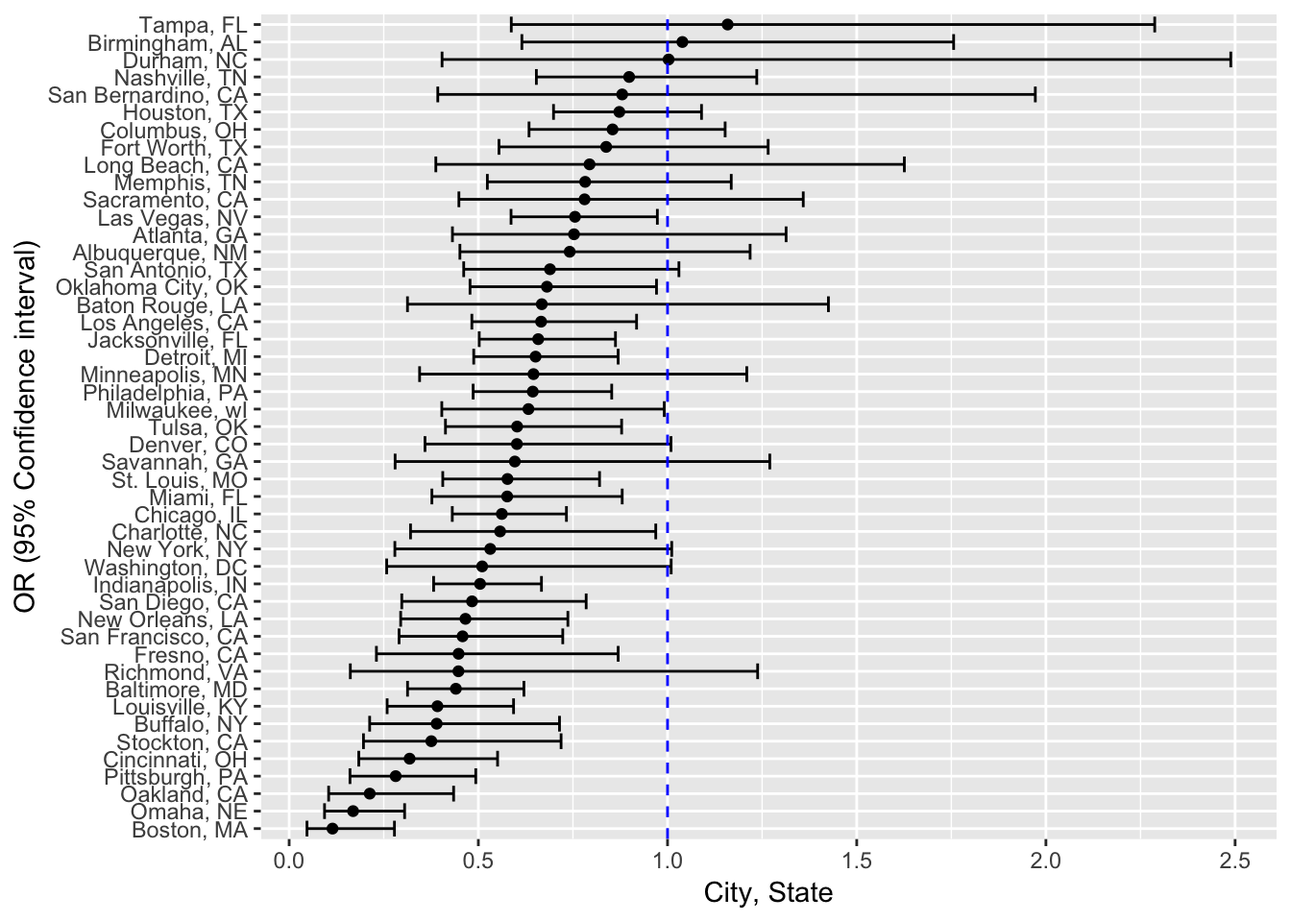
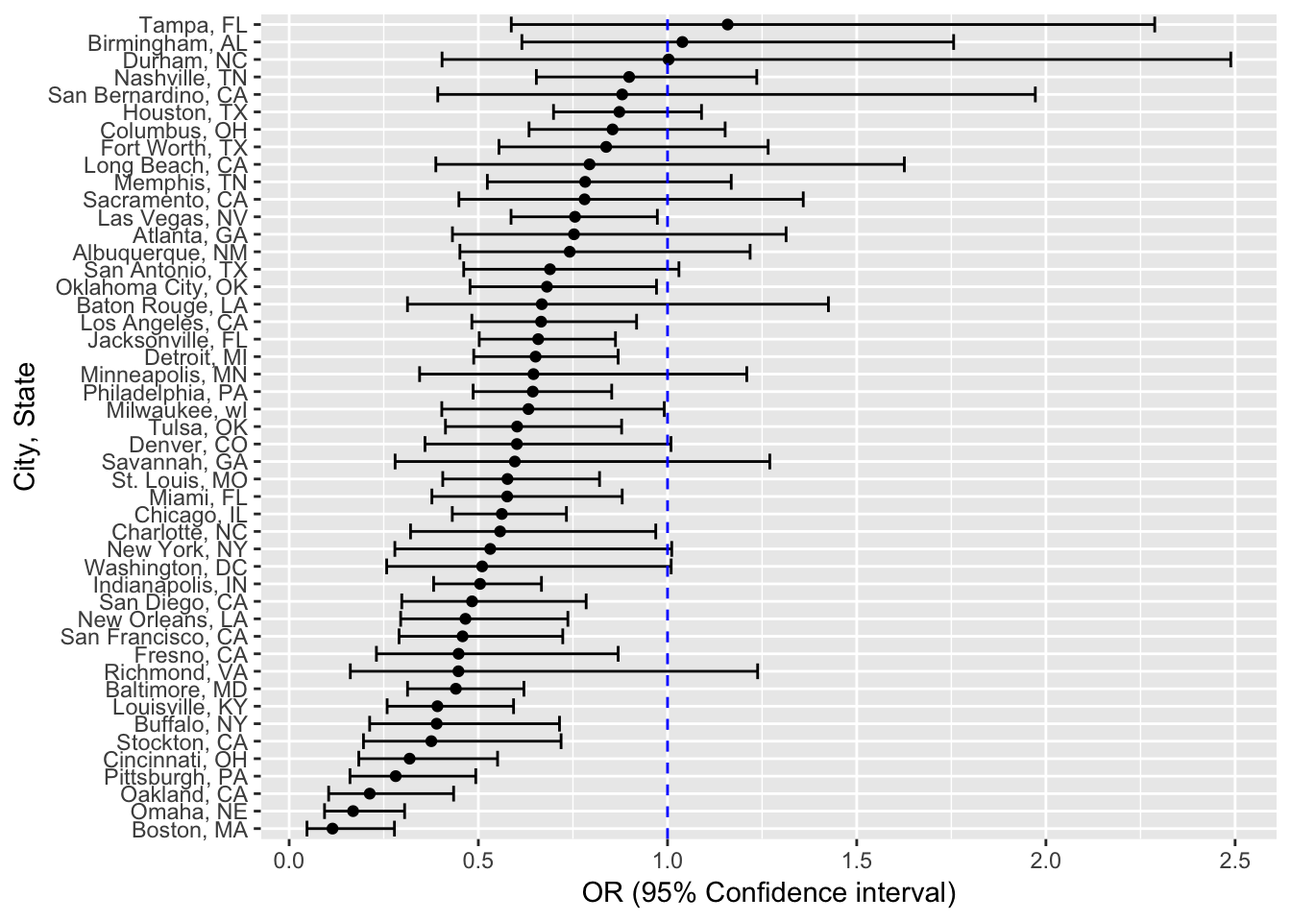
labs for coordinates in plot

Changed region(s): [[0.4688, 0.9375, 0.75, 1.0], [0.0, 0.25, 0.0312, 0.6562]]

diff --git a/unsolved_homicide.html b/unsolved_homicide.html
@@ -341,8 +341,8 @@ baltimore_prop</code></pre>
   )
 
 ggplotly(plot)</code></pre>
-<div id="htmlwidget-5b611d64d1c3463ef6be" style="width:672px;height:480px;" class="plotly html-widget"></div>
-<script type="application/json" data-for="htmlwidget-5b611d64d1c3463ef6be">{"x":{"data":[{"x":[12,11,48,26,19,32,46,2,50,21,37,29,41,43,8,27,5,34,23,36,14,17,15,31,24,3,45,6,35,7,49,13,39,30,16,22,42,38,1,9,18,47,10,33,28,40,44,25,4,20],"y":[0.386243386243386,0.383350462487153,0.645560665015918,0.462264150943396,0.43375,0.504885993485342,0.612284069097889,0.299854439592431,0.735862691960253,0.445244956772334,0.530442804428044,0.481174218251436,0.541666666666667,0.58832870186582,0.365942028985507,0.46448087431694,0.347022587268994,0.507477906186268,0.449319213313162,0.511130136986301,0.408403361344538,0.414192614047791,0.412698412698413,0.490031014621179,0.453125,0.319022457067371,0.604838709677419,0.361434977578475,0.510928961748634,0.36245110821382,0.648535564853556,0.38755980861244,0.536430834213305,0.485119047619048,0.41320293398533,0.447810339150477,0.551422319474836,0.534072900158479,0.263403263403263,0.36968085106383,0.428571428571429,0.618181818181818,0.379609544468547,0.506787330316742,0.467479674796748,0.539654144305307,0.599099099099099,0.456730769230769,0.331046312178388,0.437918215613383],"text":["city_state: Albuquerque, NM<br />estimate: 0.3862434","city_state: Atlanta, GA<br />estimate: 0.3833505","city_state: Baltimore, MD<br />estimate: 0.6455607","city_state: Baton Rouge, LA<br />estimate: 0.4622642","city_state: Birmingham, AL<br />estimate: 0.4337500","city_state: Boston, MA<br />estimate: 0.5048860","city_state: Buffalo, NY<br />estimate: 0.6122841","city_state: Charlotte, NC<br />estimate: 0.2998544","city_state: Chicago, IL<br />estimate: 0.7358627","city_state: Cincinnati, OH<br />estimate: 0.4452450","city_state: Columbus, OH<br />estimate: 0.5304428","city_state: Dallas, TX<br />estimate: 0.4811742","city_state: Denver, CO<br />estimate: 0.5416667","city_state: Detroit, MI<br />estimate: 0.5883287","city_state: Durham, NC<br />estimate: 0.3659420","city_state: Fort Worth, TX<br />estimate: 0.4644809","city_state: Fresno, CA<br />estimate: 0.3470226","city_state: Houston, TX<br />estimate: 0.5074779","city_state: Indianapolis, IN<br />estimate: 0.4493192","city_state: Jacksonville, FL<br />estimate: 0.5111301","city_state: Kansas City, MO<br />estimate: 0.4084034","city_state: Las Vegas, NV<br />estimate: 0.4141926","city_state: Long Beach, CA<br />estimate: 0.4126984","city_state: Los Angeles, CA<br />estimate: 0.4900310","city_state: Louisville, KY<br />estimate: 0.4531250","city_state: Memphis, TN<br />estimate: 0.3190225","city_state: Miami, FL<br />estimate: 0.6048387","city_state: Milwaukee, wI<br />estimate: 0.3614350","city_state: Minneapolis, MN<br />estimate: 0.5109290","city_state: Nashville, TN<br />estimate: 0.3624511","city_state: New Orleans, LA<br />estimate: 0.6485356","city_state: New York, NY<br />estimate: 0.3875598","city_state: Oakland, CA<br />estimate: 0.5364308","city_state: Oklahoma City, OK<br />estimate: 0.4851190","city_state: Omaha, NE<br />estimate: 0.4132029","city_state: Philadelphia, PA<br />estimate: 0.4478103","city_state: Phoenix, AZ<br />estimate: 0.5514223","city_state: Pittsburgh, PA<br />estimate: 0.5340729","city_state: Richmond, VA<br />estimate: 0.2634033","city_state: Sacramento, CA<br />estimate: 0.3696809","city_state: San Antonio, TX<br />estimate: 0.4285714","city_state: San Bernardino, CA<br />estimate: 0.6181818","city_state: San Diego, CA<br />estimate: 0.3796095","city_state: San Francisco, CA<br />estimate: 0.5067873","city_state: Savannah, GA<br />estimate: 0.4674797","city_state: St. Louis, MO<br />estimate: 0.5396541","city_state: Stockton, CA<br />estimate: 0.5990991","city_state: Tampa, FL<br />estimate: 0.4567308","city_state: Tulsa, OK<br />estimate: 0.3310463","city_state: Washington, DC<br />estimate: 0.4379182"],"type":"scatter","mode":"markers","marker":{"autocolorscale":false,"color":"rgba(0,0,0,1)","opacity":1,"size":5.66929133858268,"symbol":"circle","line":{"width":1.88976377952756,"color":"rgba(0,0,0,1)"}},"hoveron":"points","showlegend":false,"xaxis":"x","yaxis":"y","hoverinfo":"text","frame":null},{"x":[12,11,48,26,19,32,46,2,50,21,37,29,41,43,8,27,5,34,23,36,14,17,15,31,24,3,45,6,35,7,49,13,39,30,16,22,42,38,1,9,18,47,10,33,28,40,44,25,4,20],"y":[0.386243386243386,0.383350462487153,0.645560665015918,0.462264150943396,0.43375,0.504885993485342,0.612284069097889,0.299854439592431,0.735862691960253,0.445244956772334,0.530442804428044,0.481174218251436,0.541666666666667,0.58832870186582,0.365942028985507,0.46448087431694,0.347022587268994,0.507477906186268,0.449319213313162,0.511130136986301,0.408403361344538,0.414192614047791,0.412698412698413,0.490031014621179,0.453125,0.319022457067371,0.604838709677419,0.361434977578475,0.510928961748634,0.36245110821382,0.648535564853556,0.38755980861244,0.536430834213305,0.485119047619048,0.41320293398533,0.447810339150477,0.551422319474836,0.534072900158479,0.263403263403263,0.36968085106383,0.428571428571429,0.618181818181818,0.379609544468547,0.506787330316742,0.467479674796748,0.539654144305307,0.599099099099099,0.456730769230769,0.331046312178388,0.437918215613383],"text":["conf_low: 0.3372604<br />conf_high: 0.4375766<br />city_state: Albuquerque, NM<br />estimate: 0.3862434","conf_low: 0.3528119<br />conf_high: 0.4148219<br />city_state: Atlanta, GA<br />estimate: 0.3833505","conf_low: 0.6275625<br />conf_high: 0.6631599<br />city_state: Baltimore, MD<br />estimate: 0.6455607","conf_low: 0.4141987<br />conf_high: 0.5110240<br />city_state: Baton Rouge, LA<br />estimate: 0.4622642","conf_low: 0.3991889<br />conf_high: 0.4689557<br />city_state: Birmingham, AL<br />estimate: 0.4337500","conf_low: 0.4646219<br />conf_high: 0.5450881<br />city_state: Boston, MA<br />estimate: 0.5048860","conf_low: 0.5687990<br />conf_high: 0.6540879<br />city_state: Buffalo, NY<br />estimate: 0.6122841","conf_low: 0.2660820<br />conf_high: 0.3358999<br />city_state: Charlotte, NC<br />estimate: 0.2998544","conf_low: 0.7239959<br />conf_high: 0.7473998<br />city_state: Chicago, IL<br />estimate: 0.7358627","conf_low: 0.4079606<br />conf_high: 0.4831439<br />city_state: Cincinnati, OH<br />estimate: 0.4452450","conf_low: 0.5002167<br />conf_high: 0.5604506<br />city_state: Columbus, OH<br />estimate: 0.5304428","conf_low: 0.4561942<br />conf_high: 0.5062475<br />city_state: Dallas, TX<br />estimate: 0.4811742","conf_low: 0.4846098<br />conf_high: 0.5976807<br />city_state: Denver, CO<br />estimate: 0.5416667","conf_low: 0.5687903<br />conf_high: 0.6075953<br />city_state: Detroit, MI<br />estimate: 0.5883287","conf_low: 0.3095874<br />conf_high: 0.4260936<br />city_state: Durham, NC<br />estimate: 0.3659420","conf_low: 0.4222542<br />conf_high: 0.5072119<br />city_state: Fort Worth, TX<br />estimate: 0.4644809","conf_low: 0.3051013<br />conf_high: 0.3913963<br />city_state: Fresno, CA<br />estimate: 0.3470226","conf_low: 0.4892447<br />conf_high: 0.5256914<br />city_state: Houston, TX<br />estimate: 0.5074779","conf_low: 0.4223156<br />conf_high: 0.4766207<br />city_state: Indianapolis, IN<br />estimate: 0.4493192","conf_low: 0.4820460<br />conf_high: 0.5401402<br />city_state: Jacksonville, FL<br />estimate: 0.5111301","conf_low: 0.3803996<br />conf_high: 0.4370054<br />city_state: Kansas City, MO<br />estimate: 0.4084034","conf_low: 0.3881284<br />conf_high: 0.4407395<br />city_state: Las Vegas, NV<br />estimate: 0.4141926","conf_low: 0.3629026<br />conf_high: 0.4642973<br />city_state: Long Beach, CA<br />estimate: 0.4126984","conf_low: 0.4692208<br />conf_high: 0.5108754<br />city_state: Los Angeles, CA<br />estimate: 0.4900310","conf_low: 0.4120609<br />conf_high: 0.4948235<br />city_state: Louisville, KY<br />estimate: 0.4531250","conf_low: 0.2957047<br />conf_high: 0.3432691<br />city_state: Memphis, TN<br />estimate: 0.3190225","conf_low: 0.5685783<br />conf_high: 0.6400015<br />city_state: Miami, FL<br />estimate: 0.6048387","conf_low: 0.3333172<br />conf_high: 0.3905194<br />city_state: Milwaukee, wI<br />estimate: 0.3614350","conf_low: 0.4585150<br />conf_high: 0.5631099<br />city_state: Minneapolis, MN<br />estimate: 0.5109290","conf_low: 0.3285592<br />conf_high: 0.3977401<br />city_state: Nashville, TN<br />estimate: 0.3624511","conf_low: 0.6231048<br />conf_high: 0.6731615<br />city_state: New Orleans, LA<br />estimate: 0.6485356","conf_low: 0.3494421<br />conf_high: 0.4270755<br />city_state: New York, NY<br />estimate: 0.3875598","conf_low: 0.5040588<br />conf_high: 0.5685037<br />city_state: Oakland, CA<br />estimate: 0.5364308","conf_low: 0.4467861<br />conf_high: 0.5236245<br />city_state: Oklahoma City, OK<br />estimate: 0.4851190","conf_low: 0.3653146<br />conf_high: 0.4627477<br />city_state: Omaha, NE<br />estimate: 0.4132029","conf_low: 0.4300380<br />conf_high: 0.4657157<br />city_state: Philadelphia, PA<br />estimate: 0.4478103","conf_low: 0.5184825<br />conf_high: 0.5839244<br />city_state: Phoenix, AZ<br />estimate: 0.5514223","conf_low: 0.4942706<br />conf_high: 0.5734545<br />city_state: Pittsburgh, PA<br />estimate: 0.5340729","conf_low: 0.2228571<br />conf_high: 0.3082658<br />city_state: Richmond, VA<br />estimate: 0.2634033","conf_low: 0.3211559<br />conf_high: 0.4209131<br />city_state: Sacramento, CA<br />estimate: 0.3696809","conf_low: 0.3947772<br />conf_high: 0.4630331<br />city_state: San Antonio, TX<br />estimate: 0.4285714","conf_low: 0.5576628<br />conf_high: 0.6753422<br />city_state: San Bernardino, CA<br />estimate: 0.6181818","conf_low: 0.3354259<br />conf_high: 0.4258315<br />city_state: San Diego, CA<br />estimate: 0.3796095","conf_low: 0.4680516<br />conf_high: 0.5454433<br />city_state: San Francisco, CA<br />estimate: 0.5067873","conf_low: 0.4041252<br />conf_high: 0.5318665<br />city_state: Savannah, GA<br />estimate: 0.4674797","conf_low: 0.5154369<br />conf_high: 0.5636879<br />city_state: St. Louis, MO<br />estimate: 0.5396541","conf_low: 0.5517145<br />conf_high: 0.6447418<br />city_state: Stockton, CA<br />estimate: 0.5990991","conf_low: 0.3881009<br />conf_high: 0.5269851<br />city_state: Tampa, FL<br />estimate: 0.4567308","conf_low: 0.2932349<br />conf_high: 0.3711192<br />city_state: Tulsa, OK<br />estimate: 0.3310463","conf_low: 0.4112495<br />conf_high: 0.4649455<br />city_state: Washington, DC<br />estimate: 0.4379182"],"type":"scatter","mode":"lines","opacity":1,"line":{"color":"transparent"},"error_y":{"array":[0.0513332203121349,0.031471421466469,0.0175991953857436,0.0487598090753998,0.0352057481890362,0.0402020582872963,0.0418038701556435,0.0360454212754139,0.0115370953463946,0.0378989238466023,0.0300077496410138,0.0250733264401792,0.0560140812049631,0.0192666302441059,0.0601516171371205,0.0427310081123972,0.0443737157320374,0.0182135316401225,0.0273014399481592,0.0290100839540223,0.0286020589472369,0.0265468594046689,0.0515989217748125,0.0208444246080254,0.0416984501537965,0.0242466749945465,0.0351627794666202,0.029084400766021,0.0521809217099031,0.0352890348843428,0.0246259396975098,0.039515664613444,0.0320728204813689,0.0385054524259892,0.04954480707971,0.0179054011582327,0.0325020904978442,0.0393815756249488,0.0448625122846903,0.0512322828077911,0.0344616757408758,0.0571604049325292,0.0462219637333801,0.0386559764502041,0.064386864249817,0.0240337150951984,0.0456426843504824,0.0702543382629305,0.0400728556125307,0.0270272563335275],"arrayminus":[0.0489830019891024,0.0305385654508512,0.0179982073532744,0.0480654090830896,0.0345610513678333,0.040264063285038,0.0434851044636604,0.0337724577093105,0.0118668035347985,0.0372843825516465,0.0302260850930621,0.0249800642048432,0.0570568311269721,0.0195383974378104,0.0563546582400418,0.0422266554994513,0.0419213323212632,0.0182332177884478,0.0270036211641085,0.0290841441036856,0.0280037388185234,0.0260641865042308,0.0497957799679844,0.0208101838569787,0.0410641370881935,0.0233177469824389,0.036260384849531,0.0281177921814441,0.0524139797067814,0.0338918964431904,0.0254308027921958,0.0381177292046533,0.0323720697272768,0.0383329653242729,0.0478883462447013,0.0177723132771375,0.0329398155530007,0.0398022988234937,0.0405461727061044,0.0485249141225581,0.0337942152287431,0.0605190215782221,0.0441836421868846,0.0387357208926188,0.06335447823736,0.0242172320526221,0.0473845838859014,0.0686298662091133,0.0378114392841835,0.0266686916411842],"type":"data","width":3.01195219123506,"symmetric":false,"color":"rgba(0,0,0,1)"},"showlegend":false,"xaxis":"x","yaxis":"y","hoverinfo":"text","frame":null}],"layout":{"margin":{"t":26.2283105022831,"r":7.30593607305936,"b":39.1199667911997,"l":43.1050228310502},"plot_bgcolor":"rgba(235,235,235,1)","paper_bgcolor":"rgba(255,255,255,1)","font":{"color":"rgba(0,0,0,1)","family":"","size":14.6118721461187},"xaxis":{"domain":[0,1],"automargin":true,"type":"linear","autorange":false,"range":[0.4,50.6],"tickmode":"array","ticktext":["Richmond, VA","Charlotte, NC","Memphis, TN","Tulsa, OK","Fresno, CA","Milwaukee, wI","Nashville, TN","Durham, NC","Sacramento, CA","San Diego, CA","Atlanta, GA","Albuquerque, NM","New York, NY","Kansas City, MO","Long Beach, CA","Omaha, NE","Las Vegas, NV","San Antonio, TX","Birmingham, AL","Washington, DC","Cincinnati, OH","Philadelphia, PA","Indianapolis, IN","Louisville, KY","Tampa, FL","Baton Rouge, LA","Fort Worth, TX","Savannah, GA","Dallas, TX","Oklahoma City, OK","Los Angeles, CA","Boston, MA","San Francisco, CA","Houston, TX","Minneapolis, MN","Jacksonville, FL","Columbus, OH","Pittsburgh, PA","Oakland, CA","St. Louis, MO","Denver, CO","Phoenix, AZ","Detroit, MI","Stockton, CA","Miami, FL","Buffalo, NY","San Bernardino, CA","Baltimore, MD","New Orleans, LA","Chicago, IL"],"tickvals":[1,2,3,4,5,6,7,8,9,10,11,12,13,14,15,16,17,18,19,20,21,22,23,24,25,26,27,28,29,30,31,32,33,34,35,36,37,38,39,40,41,42,43,44,45,46,47,48,49,50],"categoryorder":"array","categoryarray":["Richmond, VA","Charlotte, NC","Memphis, TN","Tulsa, OK","Fresno, CA","Milwaukee, wI","Nashville, TN","Durham, NC","Sacramento, CA","San Diego, CA","Atlanta, GA","Albuquerque, NM","New York, NY","Kansas City, MO","Long Beach, CA","Omaha, NE","Las Vegas, NV","San Antonio, TX","Birmingham, AL","Washington, DC","Cincinnati, OH","Philadelphia, PA","Indianapolis, IN","Louisville, KY","Tampa, FL","Baton Rouge, LA","Fort Worth, TX","Savannah, GA","Dallas, TX","Oklahoma City, OK","Los Angeles, CA","Boston, MA","San Francisco, CA","Houston, TX","Minneapolis, MN","Jacksonville, FL","Columbus, OH","Pittsburgh, PA","Oakland, CA","St. Louis, MO","Denver, CO","Phoenix, AZ","Detroit, MI","Stockton, CA","Miami, FL","Buffalo, NY","San Bernardino, CA","Baltimore, MD","New Orleans, LA","Chicago, IL"],"nticks":null,"ticks":"outside","tickcolor":"rgba(51,51,51,1)","ticklen":3.65296803652968,"tickwidth":0.66417600664176,"showticklabels":true,"tickfont":{"color":"rgba(77,77,77,1)","family":"","size":10.6268161062682},"tickangle":-80,"showline":false,"linecolor":null,"linewidth":0,"showgrid":true,"gridcolor":"rgba(255,255,255,1)","gridwidth":0.66417600664176,"zeroline":false,"anchor":"y","title":"City, State","titlefont":{"color":"rgba(0,0,0,1)","family":"","size":14.6118721461187},"hoverformat":".2f"},"yaxis":{"domain":[0,1],"automargin":true,"type":"linear","autorange":false,"range":[0.196629955866685,0.773626922137122],"tickmode":"array","ticktext":["0.2","0.3","0.4","0.5","0.6","0.7"],"tickvals":[0.2,0.3,0.4,0.5,0.6,0.7],"categoryorder":"array","categoryarray":["0.2","0.3","0.4","0.5","0.6","0.7"],"nticks":null,"ticks":"outside","tickcolor":"rgba(51,51,51,1)","ticklen":3.65296803652968,"tickwidth":0.66417600664176,"showticklabels":true,"tickfont":{"color":"rgba(77,77,77,1)","family":"","size":11.689497716895},"tickangle":-0,"showline":false,"linecolor":null,"linewidth":0,"showgrid":true,"gridcolor":"rgba(255,255,255,1)","gridwidth":0.66417600664176,"zeroline":false,"anchor":"x","title":"Proportion (95% Confidence interval)","titlefont":{"color":"rgba(0,0,0,1)","family":"","size":14.6118721461187},"hoverformat":".2f"},"shapes":[{"type":"rect","fillcolor":null,"line":{"color":null,"width":0,"linetype":[]},"yref":"paper","xref":"paper","x0":0,"x1":1,"y0":0,"y1":1}],"showlegend":false,"legend":{"bgcolor":"rgba(255,255,255,1)","bordercolor":"transparent","borderwidth":1.88976377952756,"font":{"color":"rgba(0,0,0,1)","family":"","size":11.689497716895}},"hovermode":"closest","barmode":"relative"},"config":{"doubleClick":"reset","modeBarButtonsToAdd":[{"name":"Collaborate","icon":{"width":1000,"ascent":500,"descent":-50,"path":"M487 375c7-10 9-23 5-36l-79-259c-3-12-11-23-22-31-11-8-22-12-35-12l-263 0c-15 0-29 5-43 15-13 10-23 23-28 37-5 13-5 25-1 37 0 0 0 3 1 7 1 5 1 8 1 11 0 2 0 4-1 6 0 3-1 5-1 6 1 2 2 4 3 6 1 2 2 4 4 6 2 3 4 5 5 7 5 7 9 16 13 26 4 10 7 19 9 26 0 2 0 5 0 9-1 4-1 6 0 8 0 2 2 5 4 8 3 3 5 5 5 7 4 6 8 15 12 26 4 11 7 19 7 26 1 1 0 4 0 9-1 4-1 7 0 8 1 2 3 5 6 8 4 4 6 6 6 7 4 5 8 13 13 24 4 11 7 20 7 28 1 1 0 4 0 7-1 3-1 6-1 7 0 2 1 4 3 6 1 1 3 4 5 6 2 3 3 5 5 6 1 2 3 5 4 9 2 3 3 7 5 10 1 3 2 6 4 10 2 4 4 7 6 9 2 3 4 5 7 7 3 2 7 3 11 3 3 0 8 0 13-1l0-1c7 2 12 2 14 2l218 0c14 0 25-5 32-16 8-10 10-23 6-37l-79-259c-7-22-13-37-20-43-7-7-19-10-37-10l-248 0c-5 0-9-2-11-5-2-3-2-7 0-12 4-13 18-20 41-20l264 0c5 0 10 2 16 5 5 3 8 6 10 11l85 282c2 5 2 10 2 17 7-3 13-7 17-13z m-304 0c-1-3-1-5 0-7 1-1 3-2 6-2l174 0c2 0 4 1 7 2 2 2 4 4 5 7l6 18c0 3 0 5-1 7-1 1-3 2-6 2l-173 0c-3 0-5-1-8-2-2-2-4-4-4-7z m-24-73c-1-3-1-5 0-7 2-2 3-2 6-2l174 0c2 0 5 0 7 2 3 2 4 4 5 7l6 18c1 2 0 5-1 6-1 2-3 3-5 3l-174 0c-3 0-5-1-7-3-3-1-4-4-5-6z"},"click":"function(gd) { \n        // is this being viewed in RStudio?\n        if (location.search == '?viewer_pane=1') {\n          alert('To learn about plotly for collaboration, visit:\\n https://cpsievert.github.io/plotly_book/plot-ly-for-collaboration.html');\n        } else {\n          window.open('https://cpsievert.github.io/plotly_book/plot-ly-for-collaboration.html', '_blank');\n        }\n      }"}],"cloud":false},"source":"A","attrs":{"16e93b7518b8":{"x":{},"y":{},"type":"scatter"},"16e94a9f687":{"ymin":{},"ymax":{},"x":{},"y":{}}},"cur_data":"16e93b7518b8","visdat":{"16e93b7518b8":["function (y) ","x"],"16e94a9f687":["function (y) ","x"]},"highlight":{"on":"plotly_click","persistent":false,"dynamic":false,"selectize":false,"opacityDim":0.2,"selected":{"opacity":1},"debounce":0},"base_url":"https://plot.ly"},"evals":["config.modeBarButtonsToAdd.0.click"],"jsHooks":[]}</script>
+<div id="htmlwidget-f8c07e78c395f9d2b3b2" style="width:672px;height:480px;" class="plotly html-widget"></div>
+<script type="application/json" data-for="htmlwidget-f8c07e78c395f9d2b3b2">{"x":{"data":[{"x":[12,11,48,26,19,32,46,2,50,21,37,29,41,43,8,27,5,34,23,36,14,17,15,31,24,3,45,6,35,7,49,13,39,30,16,22,42,38,1,9,18,47,10,33,28,40,44,25,4,20],"y":[0.386243386243386,0.383350462487153,0.645560665015918,0.462264150943396,0.43375,0.504885993485342,0.612284069097889,0.299854439592431,0.735862691960253,0.445244956772334,0.530442804428044,0.481174218251436,0.541666666666667,0.58832870186582,0.365942028985507,0.46448087431694,0.347022587268994,0.507477906186268,0.449319213313162,0.511130136986301,0.408403361344538,0.414192614047791,0.412698412698413,0.490031014621179,0.453125,0.319022457067371,0.604838709677419,0.361434977578475,0.510928961748634,0.36245110821382,0.648535564853556,0.38755980861244,0.536430834213305,0.485119047619048,0.41320293398533,0.447810339150477,0.551422319474836,0.534072900158479,0.263403263403263,0.36968085106383,0.428571428571429,0.618181818181818,0.379609544468547,0.506787330316742,0.467479674796748,0.539654144305307,0.599099099099099,0.456730769230769,0.331046312178388,0.437918215613383],"text":["city_state: Albuquerque, NM<br />estimate: 0.3862434","city_state: Atlanta, GA<br />estimate: 0.3833505","city_state: Baltimore, MD<br />estimate: 0.6455607","city_state: Baton Rouge, LA<br />estimate: 0.4622642","city_state: Birmingham, AL<br />estimate: 0.4337500","city_state: Boston, MA<br />estimate: 0.5048860","city_state: Buffalo, NY<br />estimate: 0.6122841","city_state: Charlotte, NC<br />estimate: 0.2998544","city_state: Chicago, IL<br />estimate: 0.7358627","city_state: Cincinnati, OH<br />estimate: 0.4452450","city_state: Columbus, OH<br />estimate: 0.5304428","city_state: Dallas, TX<br />estimate: 0.4811742","city_state: Denver, CO<br />estimate: 0.5416667","city_state: Detroit, MI<br />estimate: 0.5883287","city_state: Durham, NC<br />estimate: 0.3659420","city_state: Fort Worth, TX<br />estimate: 0.4644809","city_state: Fresno, CA<br />estimate: 0.3470226","city_state: Houston, TX<br />estimate: 0.5074779","city_state: Indianapolis, IN<br />estimate: 0.4493192","city_state: Jacksonville, FL<br />estimate: 0.5111301","city_state: Kansas City, MO<br />estimate: 0.4084034","city_state: Las Vegas, NV<br />estimate: 0.4141926","city_state: Long Beach, CA<br />estimate: 0.4126984","city_state: Los Angeles, CA<br />estimate: 0.4900310","city_state: Louisville, KY<br />estimate: 0.4531250","city_state: Memphis, TN<br />estimate: 0.3190225","city_state: Miami, FL<br />estimate: 0.6048387","city_state: Milwaukee, wI<br />estimate: 0.3614350","city_state: Minneapolis, MN<br />estimate: 0.5109290","city_state: Nashville, TN<br />estimate: 0.3624511","city_state: New Orleans, LA<br />estimate: 0.6485356","city_state: New York, NY<br />estimate: 0.3875598","city_state: Oakland, CA<br />estimate: 0.5364308","city_state: Oklahoma City, OK<br />estimate: 0.4851190","city_state: Omaha, NE<br />estimate: 0.4132029","city_state: Philadelphia, PA<br />estimate: 0.4478103","city_state: Phoenix, AZ<br />estimate: 0.5514223","city_state: Pittsburgh, PA<br />estimate: 0.5340729","city_state: Richmond, VA<br />estimate: 0.2634033","city_state: Sacramento, CA<br />estimate: 0.3696809","city_state: San Antonio, TX<br />estimate: 0.4285714","city_state: San Bernardino, CA<br />estimate: 0.6181818","city_state: San Diego, CA<br />estimate: 0.3796095","city_state: San Francisco, CA<br />estimate: 0.5067873","city_state: Savannah, GA<br />estimate: 0.4674797","city_state: St. Louis, MO<br />estimate: 0.5396541","city_state: Stockton, CA<br />estimate: 0.5990991","city_state: Tampa, FL<br />estimate: 0.4567308","city_state: Tulsa, OK<br />estimate: 0.3310463","city_state: Washington, DC<br />estimate: 0.4379182"],"type":"scatter","mode":"markers","marker":{"autocolorscale":false,"color":"rgba(0,0,0,1)","opacity":1,"size":5.66929133858268,"symbol":"circle","line":{"width":1.88976377952756,"color":"rgba(0,0,0,1)"}},"hoveron":"points","showlegend":false,"xaxis":"x","yaxis":"y","hoverinfo":"text","frame":null},{"x":[12,11,48,26,19,32,46,2,50,21,37,29,41,43,8,27,5,34,23,36,14,17,15,31,24,3,45,6,35,7,49,13,39,30,16,22,42,38,1,9,18,47,10,33,28,40,44,25,4,20],"y":[0.386243386243386,0.383350462487153,0.645560665015918,0.462264150943396,0.43375,0.504885993485342,0.612284069097889,0.299854439592431,0.735862691960253,0.445244956772334,0.530442804428044,0.481174218251436,0.541666666666667,0.58832870186582,0.365942028985507,0.46448087431694,0.347022587268994,0.507477906186268,0.449319213313162,0.511130136986301,0.408403361344538,0.414192614047791,0.412698412698413,0.490031014621179,0.453125,0.319022457067371,0.604838709677419,0.361434977578475,0.510928961748634,0.36245110821382,0.648535564853556,0.38755980861244,0.536430834213305,0.485119047619048,0.41320293398533,0.447810339150477,0.551422319474836,0.534072900158479,0.263403263403263,0.36968085106383,0.428571428571429,0.618181818181818,0.379609544468547,0.506787330316742,0.467479674796748,0.539654144305307,0.599099099099099,0.456730769230769,0.331046312178388,0.437918215613383],"text":["conf_low: 0.3372604<br />conf_high: 0.4375766<br />city_state: Albuquerque, NM<br />estimate: 0.3862434","conf_low: 0.3528119<br />conf_high: 0.4148219<br />city_state: Atlanta, GA<br />estimate: 0.3833505","conf_low: 0.6275625<br />conf_high: 0.6631599<br />city_state: Baltimore, MD<br />estimate: 0.6455607","conf_low: 0.4141987<br />conf_high: 0.5110240<br />city_state: Baton Rouge, LA<br />estimate: 0.4622642","conf_low: 0.3991889<br />conf_high: 0.4689557<br />city_state: Birmingham, AL<br />estimate: 0.4337500","conf_low: 0.4646219<br />conf_high: 0.5450881<br />city_state: Boston, MA<br />estimate: 0.5048860","conf_low: 0.5687990<br />conf_high: 0.6540879<br />city_state: Buffalo, NY<br />estimate: 0.6122841","conf_low: 0.2660820<br />conf_high: 0.3358999<br />city_state: Charlotte, NC<br />estimate: 0.2998544","conf_low: 0.7239959<br />conf_high: 0.7473998<br />city_state: Chicago, IL<br />estimate: 0.7358627","conf_low: 0.4079606<br />conf_high: 0.4831439<br />city_state: Cincinnati, OH<br />estimate: 0.4452450","conf_low: 0.5002167<br />conf_high: 0.5604506<br />city_state: Columbus, OH<br />estimate: 0.5304428","conf_low: 0.4561942<br />conf_high: 0.5062475<br />city_state: Dallas, TX<br />estimate: 0.4811742","conf_low: 0.4846098<br />conf_high: 0.5976807<br />city_state: Denver, CO<br />estimate: 0.5416667","conf_low: 0.5687903<br />conf_high: 0.6075953<br />city_state: Detroit, MI<br />estimate: 0.5883287","conf_low: 0.3095874<br />conf_high: 0.4260936<br />city_state: Durham, NC<br />estimate: 0.3659420","conf_low: 0.4222542<br />conf_high: 0.5072119<br />city_state: Fort Worth, TX<br />estimate: 0.4644809","conf_low: 0.3051013<br />conf_high: 0.3913963<br />city_state: Fresno, CA<br />estimate: 0.3470226","conf_low: 0.4892447<br />conf_high: 0.5256914<br />city_state: Houston, TX<br />estimate: 0.5074779","conf_low: 0.4223156<br />conf_high: 0.4766207<br />city_state: Indianapolis, IN<br />estimate: 0.4493192","conf_low: 0.4820460<br />conf_high: 0.5401402<br />city_state: Jacksonville, FL<br />estimate: 0.5111301","conf_low: 0.3803996<br />conf_high: 0.4370054<br />city_state: Kansas City, MO<br />estimate: 0.4084034","conf_low: 0.3881284<br />conf_high: 0.4407395<br />city_state: Las Vegas, NV<br />estimate: 0.4141926","conf_low: 0.3629026<br />conf_high: 0.4642973<br />city_state: Long Beach, CA<br />estimate: 0.4126984","conf_low: 0.4692208<br />conf_high: 0.5108754<br />city_state: Los Angeles, CA<br />estimate: 0.4900310","conf_low: 0.4120609<br />conf_high: 0.4948235<br />city_state: Louisville, KY<br />estimate: 0.4531250","conf_low: 0.2957047<br />conf_high: 0.3432691<br />city_state: Memphis, TN<br />estimate: 0.3190225","conf_low: 0.5685783<br />conf_high: 0.6400015<br />city_state: Miami, FL<br />estimate: 0.6048387","conf_low: 0.3333172<br />conf_high: 0.3905194<br />city_state: Milwaukee, wI<br />estimate: 0.3614350","conf_low: 0.4585150<br />conf_high: 0.5631099<br />city_state: Minneapolis, MN<br />estimate: 0.5109290","conf_low: 0.3285592<br />conf_high: 0.3977401<br />city_state: Nashville, TN<br />estimate: 0.3624511","conf_low: 0.6231048<br />conf_high: 0.6731615<br />city_state: New Orleans, LA<br />estimate: 0.6485356","conf_low: 0.3494421<br />conf_high: 0.4270755<br />city_state: New York, NY<br />estimate: 0.3875598","conf_low: 0.5040588<br />conf_high: 0.5685037<br />city_state: Oakland, CA<br />estimate: 0.5364308","conf_low: 0.4467861<br />conf_high: 0.5236245<br />city_state: Oklahoma City, OK<br />estimate: 0.4851190","conf_low: 0.3653146<br />conf_high: 0.4627477<br />city_state: Omaha, NE<br />estimate: 0.4132029","conf_low: 0.4300380<br />conf_high: 0.4657157<br />city_state: Philadelphia, PA<br />estimate: 0.4478103","conf_low: 0.5184825<br />conf_high: 0.5839244<br />city_state: Phoenix, AZ<br />estimate: 0.5514223","conf_low: 0.4942706<br />conf_high: 0.5734545<br />city_state: Pittsburgh, PA<br />estimate: 0.5340729","conf_low: 0.2228571<br />conf_high: 0.3082658<br />city_state: Richmond, VA<br />estimate: 0.2634033","conf_low: 0.3211559<br />conf_high: 0.4209131<br />city_state: Sacramento, CA<br />estimate: 0.3696809","conf_low: 0.3947772<br />conf_high: 0.4630331<br />city_state: San Antonio, TX<br />estimate: 0.4285714","conf_low: 0.5576628<br />conf_high: 0.6753422<br />city_state: San Bernardino, CA<br />estimate: 0.6181818","conf_low: 0.3354259<br />conf_high: 0.4258315<br />city_state: San Diego, CA<br />estimate: 0.3796095","conf_low: 0.4680516<br />conf_high: 0.5454433<br />city_state: San Francisco, CA<br />estimate: 0.5067873","conf_low: 0.4041252<br />conf_high: 0.5318665<br />city_state: Savannah, GA<br />estimate: 0.4674797","conf_low: 0.5154369<br />conf_high: 0.5636879<br />city_state: St. Louis, MO<br />estimate: 0.5396541","conf_low: 0.5517145<br />conf_high: 0.6447418<br />city_state: Stockton, CA<br />estimate: 0.5990991","conf_low: 0.3881009<br />conf_high: 0.5269851<br />city_state: Tampa, FL<br />estimate: 0.4567308","conf_low: 0.2932349<br />conf_high: 0.3711192<br />city_state: Tulsa, OK<br />estimate: 0.3310463","conf_low: 0.4112495<br />conf_high: 0.4649455<br />city_state: Washington, DC<br />estimate: 0.4379182"],"type":"scatter","mode":"lines","opacity":1,"line":{"color":"transparent"},"error_y":{"array":[0.0513332203121349,0.031471421466469,0.0175991953857436,0.0487598090753998,0.0352057481890362,0.0402020582872963,0.0418038701556435,0.0360454212754139,0.0115370953463946,0.0378989238466023,0.0300077496410138,0.0250733264401792,0.0560140812049631,0.0192666302441059,0.0601516171371205,0.0427310081123972,0.0443737157320374,0.0182135316401225,0.0273014399481592,0.0290100839540223,0.0286020589472369,0.0265468594046689,0.0515989217748125,0.0208444246080254,0.0416984501537965,0.0242466749945465,0.0351627794666202,0.029084400766021,0.0521809217099031,0.0352890348843428,0.0246259396975098,0.039515664613444,0.0320728204813689,0.0385054524259892,0.04954480707971,0.0179054011582327,0.0325020904978442,0.0393815756249488,0.0448625122846903,0.0512322828077911,0.0344616757408758,0.0571604049325292,0.0462219637333801,0.0386559764502041,0.064386864249817,0.0240337150951984,0.0456426843504824,0.0702543382629305,0.0400728556125307,0.0270272563335275],"arrayminus":[0.0489830019891024,0.0305385654508512,0.0179982073532744,0.0480654090830896,0.0345610513678333,0.040264063285038,0.0434851044636604,0.0337724577093105,0.0118668035347985,0.0372843825516465,0.0302260850930621,0.0249800642048432,0.0570568311269721,0.0195383974378104,0.0563546582400418,0.0422266554994513,0.0419213323212632,0.0182332177884478,0.0270036211641085,0.0290841441036856,0.0280037388185234,0.0260641865042308,0.0497957799679844,0.0208101838569787,0.0410641370881935,0.0233177469824389,0.036260384849531,0.0281177921814441,0.0524139797067814,0.0338918964431904,0.0254308027921958,0.0381177292046533,0.0323720697272768,0.0383329653242729,0.0478883462447013,0.0177723132771375,0.0329398155530007,0.0398022988234937,0.0405461727061044,0.0485249141225581,0.0337942152287431,0.0605190215782221,0.0441836421868846,0.0387357208926188,0.06335447823736,0.0242172320526221,0.0473845838859014,0.0686298662091133,0.0378114392841835,0.0266686916411842],"type":"data","width":3.01195219123506,"symmetric":false,"color":"rgba(0,0,0,1)"},"showlegend":false,"xaxis":"x","yaxis":"y","hoverinfo":"text","frame":null}],"layout":{"margin":{"t":26.2283105022831,"r":7.30593607305936,"b":39.1199667911997,"l":43.1050228310502},"plot_bgcolor":"rgba(235,235,235,1)","paper_bgcolor":"rgba(255,255,255,1)","font":{"color":"rgba(0,0,0,1)","family":"","size":14.6118721461187},"xaxis":{"domain":[0,1],"automargin":true,"type":"linear","autorange":false,"range":[0.4,50.6],"tickmode":"array","ticktext":["Richmond, VA","Charlotte, NC","Memphis, TN","Tulsa, OK","Fresno, CA","Milwaukee, wI","Nashville, TN","Durham, NC","Sacramento, CA","San Diego, CA","Atlanta, GA","Albuquerque, NM","New York, NY","Kansas City, MO","Long Beach, CA","Omaha, NE","Las Vegas, NV","San Antonio, TX","Birmingham, AL","Washington, DC","Cincinnati, OH","Philadelphia, PA","Indianapolis, IN","Louisville, KY","Tampa, FL","Baton Rouge, LA","Fort Worth, TX","Savannah, GA","Dallas, TX","Oklahoma City, OK","Los Angeles, CA","Boston, MA","San Francisco, CA","Houston, TX","Minneapolis, MN","Jacksonville, FL","Columbus, OH","Pittsburgh, PA","Oakland, CA","St. Louis, MO","Denver, CO","Phoenix, AZ","Detroit, MI","Stockton, CA","Miami, FL","Buffalo, NY","San Bernardino, CA","Baltimore, MD","New Orleans, LA","Chicago, IL"],"tickvals":[1,2,3,4,5,6,7,8,9,10,11,12,13,14,15,16,17,18,19,20,21,22,23,24,25,26,27,28,29,30,31,32,33,34,35,36,37,38,39,40,41,42,43,44,45,46,47,48,49,50],"categoryorder":"array","categoryarray":["Richmond, VA","Charlotte, NC","Memphis, TN","Tulsa, OK","Fresno, CA","Milwaukee, wI","Nashville, TN","Durham, NC","Sacramento, CA","San Diego, CA","Atlanta, GA","Albuquerque, NM","New York, NY","Kansas City, MO","Long Beach, CA","Omaha, NE","Las Vegas, NV","San Antonio, TX","Birmingham, AL","Washington, DC","Cincinnati, OH","Philadelphia, PA","Indianapolis, IN","Louisville, KY","Tampa, FL","Baton Rouge, LA","Fort Worth, TX","Savannah, GA","Dallas, TX","Oklahoma City, OK","Los Angeles, CA","Boston, MA","San Francisco, CA","Houston, TX","Minneapolis, MN","Jacksonville, FL","Columbus, OH","Pittsburgh, PA","Oakland, CA","St. Louis, MO","Denver, CO","Phoenix, AZ","Detroit, MI","Stockton, CA","Miami, FL","Buffalo, NY","San Bernardino, CA","Baltimore, MD","New Orleans, LA","Chicago, IL"],"nticks":null,"ticks":"outside","tickcolor":"rgba(51,51,51,1)","ticklen":3.65296803652968,"tickwidth":0.66417600664176,"showticklabels":true,"tickfont":{"color":"rgba(77,77,77,1)","family":"","size":10.6268161062682},"tickangle":-80,"showline":false,"linecolor":null,"linewidth":0,"showgrid":true,"gridcolor":"rgba(255,255,255,1)","gridwidth":0.66417600664176,"zeroline":false,"anchor":"y","title":"City, State","titlefont":{"color":"rgba(0,0,0,1)","family":"","size":14.6118721461187},"hoverformat":".2f"},"yaxis":{"domain":[0,1],"automargin":true,"type":"linear","autorange":false,"range":[0.196629955866685,0.773626922137122],"tickmode":"array","ticktext":["0.2","0.3","0.4","0.5","0.6","0.7"],"tickvals":[0.2,0.3,0.4,0.5,0.6,0.7],"categoryorder":"array","categoryarray":["0.2","0.3","0.4","0.5","0.6","0.7"],"nticks":null,"ticks":"outside","tickcolor":"rgba(51,51,51,1)","ticklen":3.65296803652968,"tickwidth":0.66417600664176,"showticklabels":true,"tickfont":{"color":"rgba(77,77,77,1)","family":"","size":11.689497716895},"tickangle":-0,"showline":false,"linecolor":null,"linewidth":0,"showgrid":true,"gridcolor":"rgba(255,255,255,1)","gridwidth":0.66417600664176,"zeroline":false,"anchor":"x","title":"Proportion (95% Confidence interval)","titlefont":{"color":"rgba(0,0,0,1)","family":"","size":14.6118721461187},"hoverformat":".2f"},"shapes":[{"type":"rect","fillcolor":null,"line":{"color":null,"width":0,"linetype":[]},"yref":"paper","xref":"paper","x0":0,"x1":1,"y0":0,"y1":1}],"showlegend":false,"legend":{"bgcolor":"rgba(255,255,255,1)","bordercolor":"transparent","borderwidth":1.88976377952756,"font":{"color":"rgba(0,0,0,1)","family":"","size":11.689497716895}},"hovermode":"closest","barmode":"relative"},"config":{"doubleClick":"reset","modeBarButtonsToAdd":[{"name":"Collaborate","icon":{"width":1000,"ascent":500,"descent":-50,"path":"M487 375c7-10 9-23 5-36l-79-259c-3-12-11-23-22-31-11-8-22-12-35-12l-263 0c-15 0-29 5-43 15-13 10-23 23-28 37-5 13-5 25-1 37 0 0 0 3 1 7 1 5 1 8 1 11 0 2 0 4-1 6 0 3-1 5-1 6 1 2 2 4 3 6 1 2 2 4 4 6 2 3 4 5 5 7 5 7 9 16 13 26 4 10 7 19 9 26 0 2 0 5 0 9-1 4-1 6 0 8 0 2 2 5 4 8 3 3 5 5 5 7 4 6 8 15 12 26 4 11 7 19 7 26 1 1 0 4 0 9-1 4-1 7 0 8 1 2 3 5 6 8 4 4 6 6 6 7 4 5 8 13 13 24 4 11 7 20 7 28 1 1 0 4 0 7-1 3-1 6-1 7 0 2 1 4 3 6 1 1 3 4 5 6 2 3 3 5 5 6 1 2 3 5 4 9 2 3 3 7 5 10 1 3 2 6 4 10 2 4 4 7 6 9 2 3 4 5 7 7 3 2 7 3 11 3 3 0 8 0 13-1l0-1c7 2 12 2 14 2l218 0c14 0 25-5 32-16 8-10 10-23 6-37l-79-259c-7-22-13-37-20-43-7-7-19-10-37-10l-248 0c-5 0-9-2-11-5-2-3-2-7 0-12 4-13 18-20 41-20l264 0c5 0 10 2 16 5 5 3 8 6 10 11l85 282c2 5 2 10 2 17 7-3 13-7 17-13z m-304 0c-1-3-1-5 0-7 1-1 3-2 6-2l174 0c2 0 4 1 7 2 2 2 4 4 5 7l6 18c0 3 0 5-1 7-1 1-3 2-6 2l-173 0c-3 0-5-1-8-2-2-2-4-4-4-7z m-24-73c-1-3-1-5 0-7 2-2 3-2 6-2l174 0c2 0 5 0 7 2 3 2 4 4 5 7l6 18c1 2 0 5-1 6-1 2-3 3-5 3l-174 0c-3 0-5-1-7-3-3-1-4-4-5-6z"},"click":"function(gd) { \n        // is this being viewed in RStudio?\n        if (location.search == '?viewer_pane=1') {\n          alert('To learn about plotly for collaboration, visit:\\n https://cpsievert.github.io/plotly_book/plot-ly-for-collaboration.html');\n        } else {\n          window.open('https://cpsievert.github.io/plotly_book/plot-ly-for-collaboration.html', '_blank');\n        }\n      }"}],"cloud":false},"source":"A","attrs":{"19751f5a8aea":{"x":{},"y":{},"type":"scatter"},"1975715618ba":{"ymin":{},"ymax":{},"x":{},"y":{}}},"cur_data":"19751f5a8aea","visdat":{"19751f5a8aea":["function (y) ","x"],"1975715618ba":["function (y) ","x"]},"highlight":{"on":"plotly_click","persistent":false,"dynamic":false,"selectize":false,"opacityDim":0.2,"selected":{"opacity":1},"debounce":0},"base_url":"https://plot.ly"},"evals":["config.modeBarButtonsToAdd.0.click"],"jsHooks":[]}</script>
 </div>
 <div id="further-analysis" class="section level4">
 <h4>Further analysis</h4>
@@ -415,8 +415,8 @@ fit_logistic_baltimore %&gt;% broom::tidy() %&gt;%
   coord_flip() +
   geom_hline(aes(yintercept = 1.00), linetype = &quot;dashed&quot;, color = &quot;blue&quot;) + 
   labs(
-    x = &quot;OR (95% Confidence interval)&quot;,
-    y = &quot;City, State&quot;
+    y = &quot;OR (95% Confidence interval)&quot;,
+    x = &quot;City, State&quot;
   ) </code></pre>
 <p><img src="unsolved_homicide_files/figure-html/unnamed-chunk-10-1.png" width="672" /></p>
 <p>We see that in almost all the cities ( expections, Tampa &amp; Birmingham and Durham) have OR below 1.0. This means that in almost all of the cities, the odds of solving a homicide for non-white is less that white category, adjusting for sex and age. However, it is important to note the confidence intervals - about half include the value of 1, meaning they are not statistically significant.</p>
